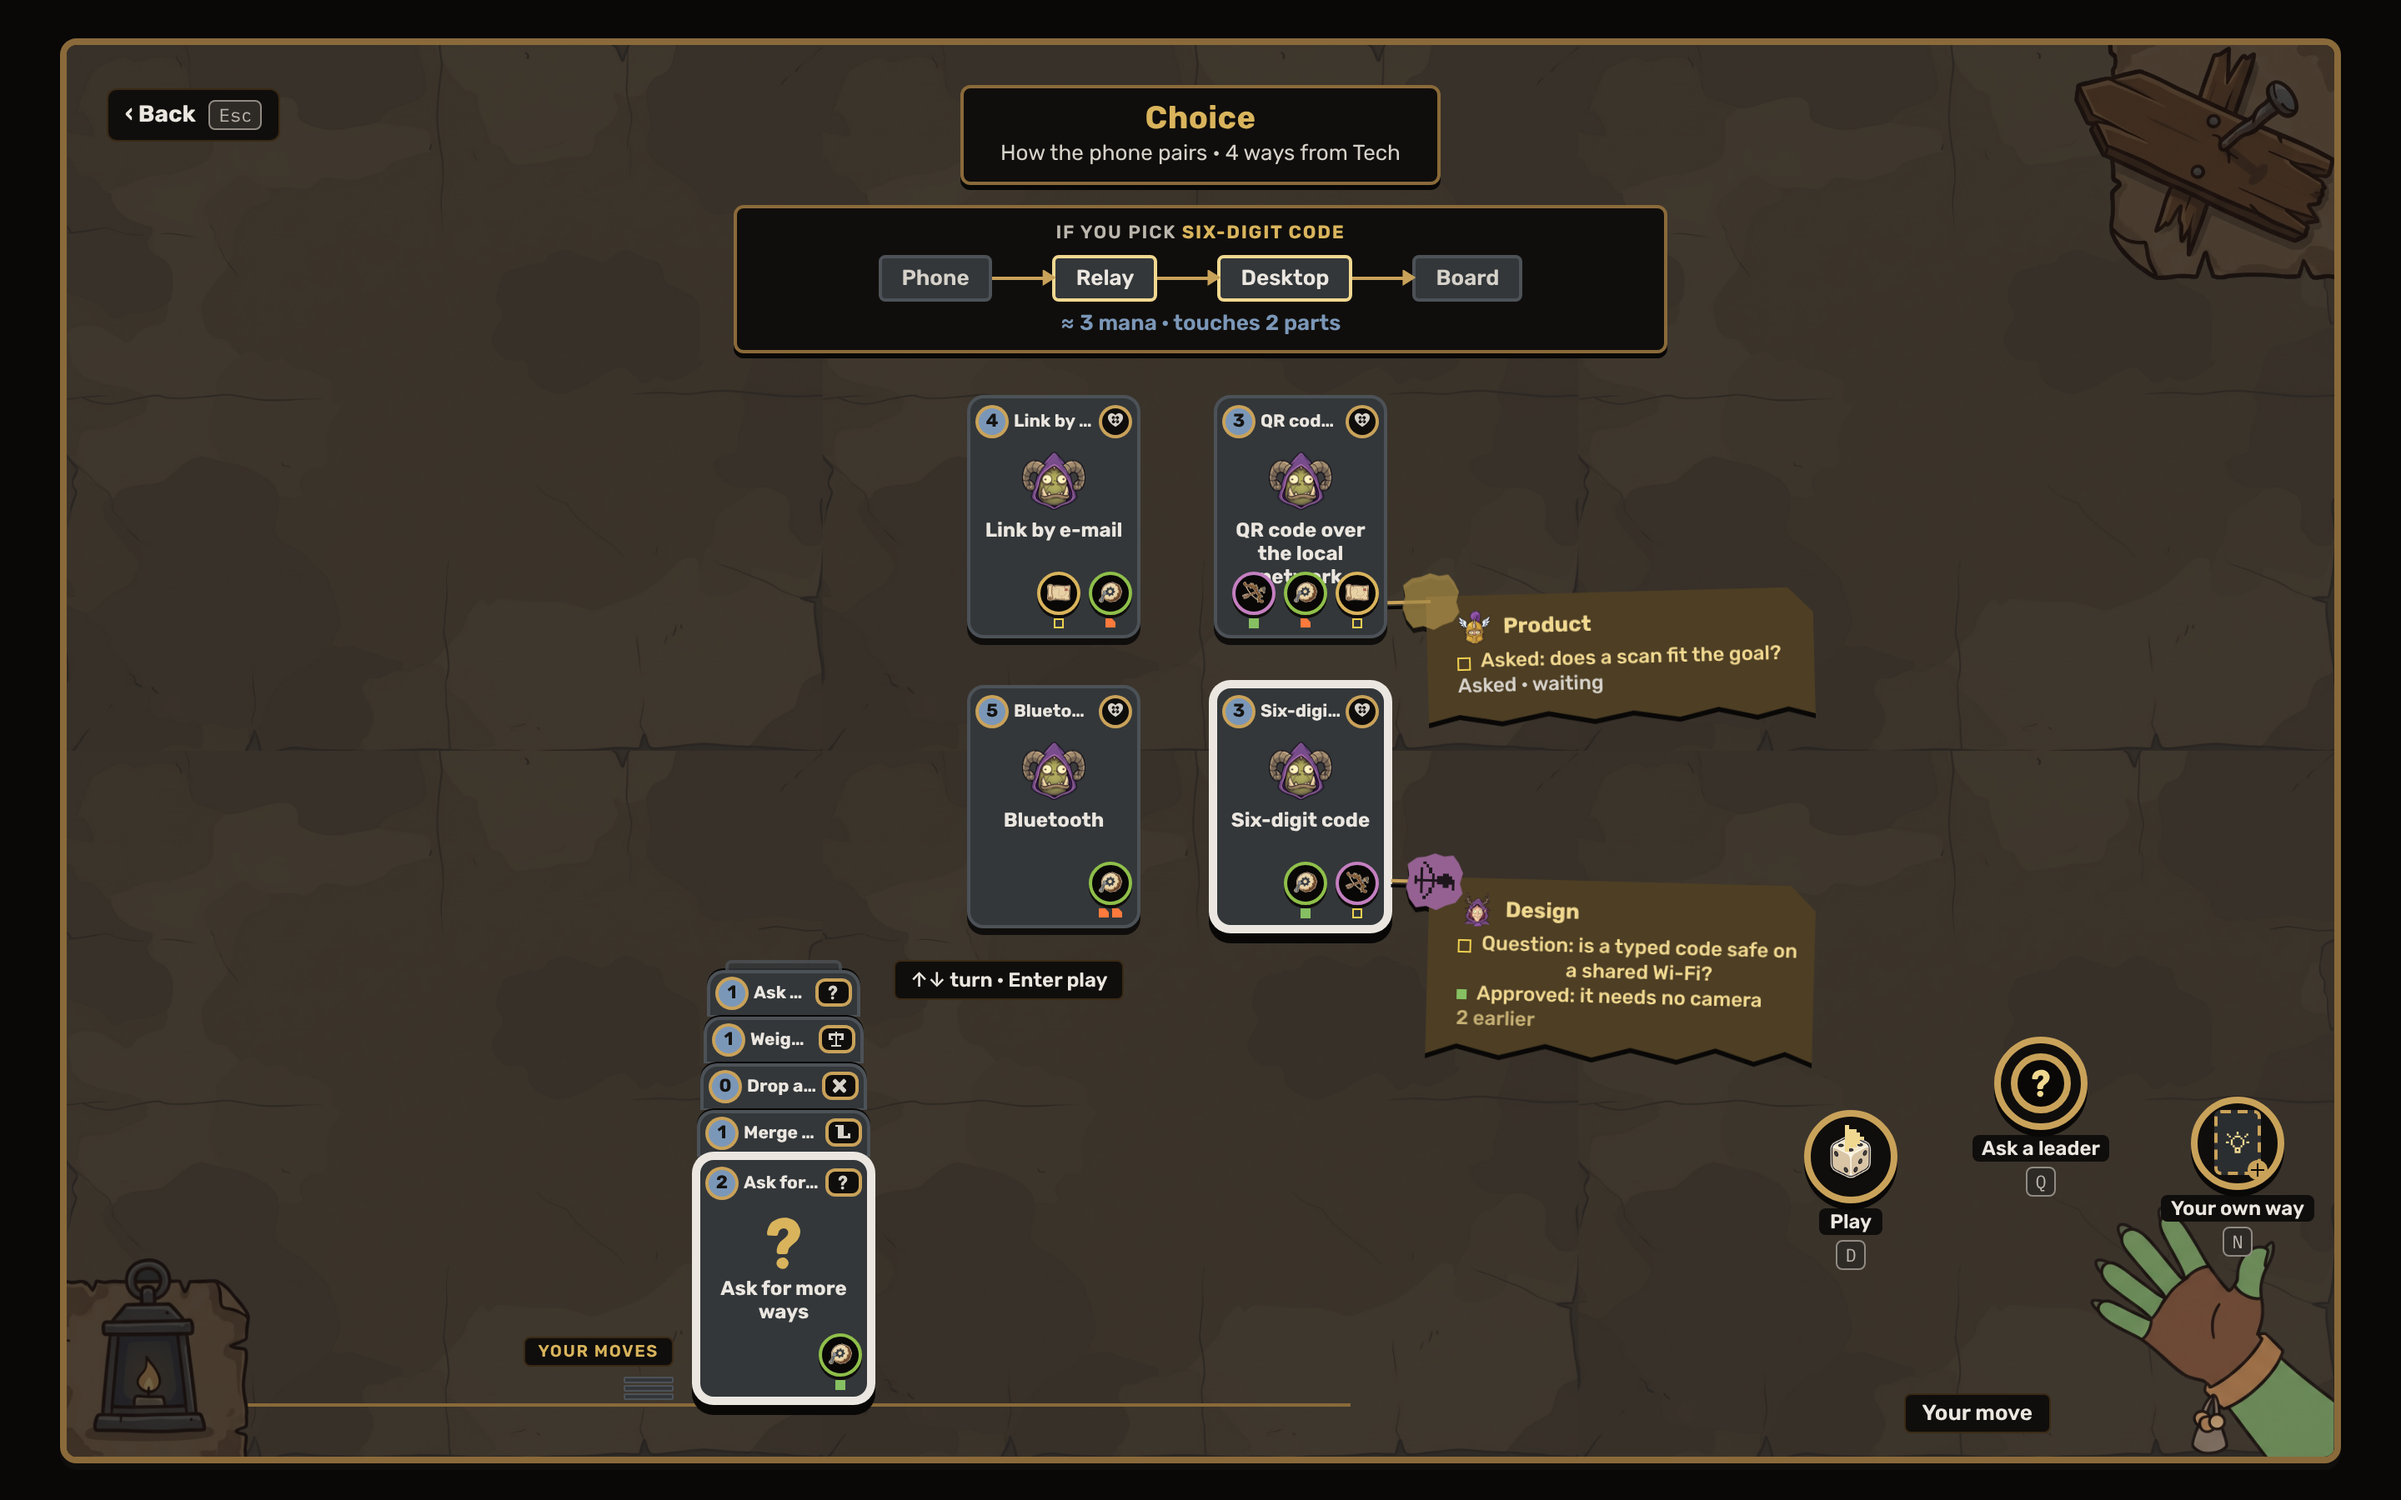
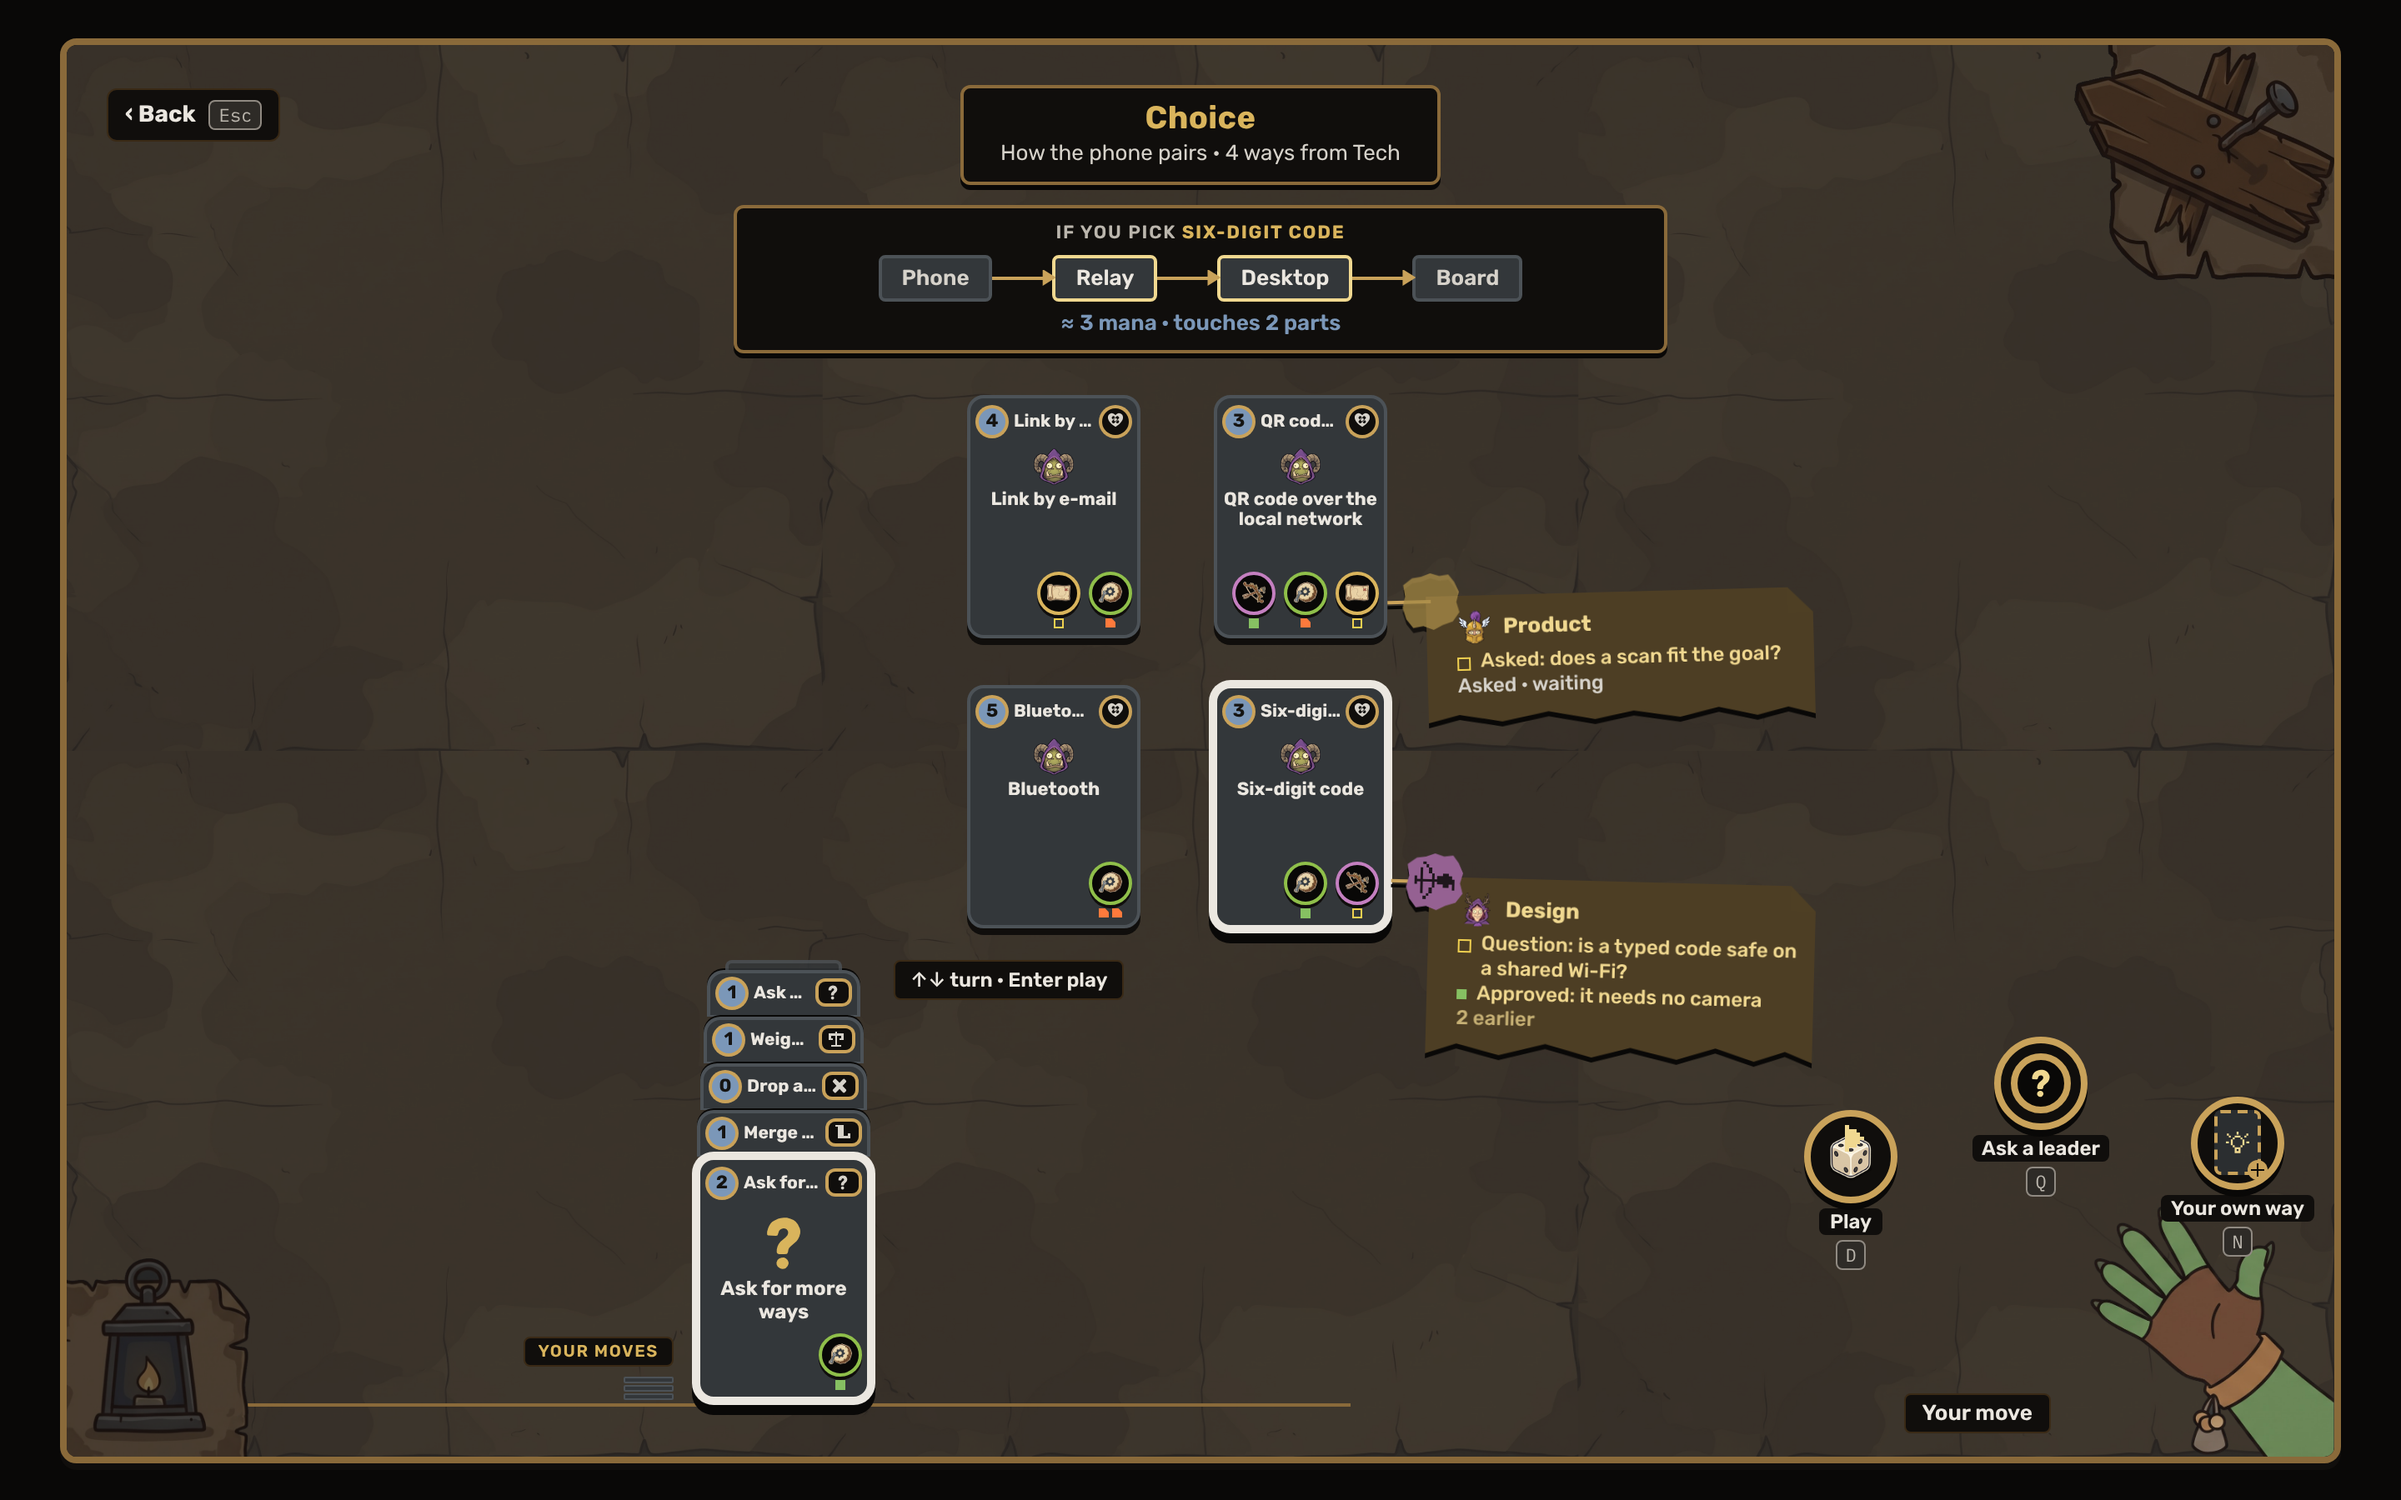
Mat mockups round 7, work in progress
Claude-Session: https://claude.ai/code/session_01MCU3dnmwpxzAdFr5WE7TTZ

diff --git a/docs/mockups/mat-scenes/choice.html b/docs/mockups/mat-scenes/choice.html
@@ -63,7 +63,7 @@ body[data-face="phone"] .plate b { font-size: 17px; line-height: 22px; }
 .tt:hover, .tt:focus { outline: 2px solid var(--ork-ink); }
 
 /* notes: dark kraft paper, sealed by the token's wax, a short thread */
-.note { position: absolute; width: 232px; filter: drop-shadow(0 3px 0 var(--ork-room)); z-index: 6; font: 500 12px/15px var(--ork-font-text); }
+.note { text-align: left; position: absolute; width: 232px; filter: drop-shadow(0 3px 0 var(--ork-room)); z-index: 6; font: 500 12px/15px var(--ork-font-text); }
 .note.t1 { rotate: -1.5deg; } .note.t2 { rotate: 1.5deg; }
 .note .paper { position: relative; padding: 8px 10px 14px 18px; background: color-mix(in srgb, var(--ork-plaque) 82%, var(--ork-gilt) 18%); color: var(--ork-gilt-hi);
   clip-path: polygon(0 0, calc(100% - 15px) 0, 100% 15px, 100% 100%, 93% 94%, 85% 100%, 75% 93%, 65% 100%, 53% 94%, 43% 100%, 31% 93%, 19% 100%, 8% 94%, 0 100%); }
@@ -210,8 +210,8 @@ body[data-face="phone"] { --tile: 280px 280px; }
 .grid { position: absolute; left: 540px; top: 210px; width: 252px; display: grid; grid-template-columns: 104px 104px; gap: 28px 44px; z-index: 3; }
 .grid .card { overflow: visible; }
 .grid .note { left: calc(100% + 26px); top: 116px; --thl: 26px; }
-.way .hd { width: 24px; height: 24px; margin-top: 1px; }
-.way b.t { font-size: 11px; line-height: 12px; margin-top: 2px; }
+.grid .card .hd { width: 24px; height: 24px; margin-top: 1px; }
+.grid .card b.t { font-size: 11px; line-height: 12px; margin-top: 2px; }
 body[data-face="phone"] .view { top: 76px; left: 6px; right: 8px; width: auto; translate: none; padding: 5px 8px 6px; }
 body[data-face="phone"] .view .lab { display: none; }
 body[data-face="phone"] .box { padding: 2px 6px; font-size: 11px; line-height: 15px; }
@@ -219,7 +219,7 @@ body[data-face="phone"] .arr { width: 14px; }
 body[data-face="phone"] .view .cost { font-size: 12px; margin-top: 3px; }
 body[data-face="phone"] .grid { left: 4px; top: 150px; gap: 22px 10px; width: auto; }
 body[data-face="phone"] .grid .note { left: calc(100% + 24px); width: 112px; --thl: 24px; }
-body[data-face="phone"] .grid .card:nth-child(odd) .note { display: none; }
+body[data-face="phone"] .grid .note .nl.dim { display: none; }
 body[data-state="pick"][data-face="desk"] .finger { left: 590px; top: 560px; }
 body[data-state="pick"][data-face="phone"] .finger { left: 50px; top: 540px; }
 

diff --git a/docs/mockups/mat-scenes/discussion.html b/docs/mockups/mat-scenes/discussion.html
@@ -63,7 +63,7 @@ body[data-face="phone"] .plate b { font-size: 17px; line-height: 22px; }
 .tt:hover, .tt:focus { outline: 2px solid var(--ork-ink); }
 
 /* notes: dark kraft paper, sealed by the token's wax, a short thread */
-.note { position: absolute; width: 232px; filter: drop-shadow(0 3px 0 var(--ork-room)); z-index: 6; font: 500 12px/15px var(--ork-font-text); }
+.note { text-align: left; position: absolute; width: 232px; filter: drop-shadow(0 3px 0 var(--ork-room)); z-index: 6; font: 500 12px/15px var(--ork-font-text); }
 .note.t1 { rotate: -1.5deg; } .note.t2 { rotate: 1.5deg; }
 .note .paper { position: relative; padding: 8px 10px 14px 18px; background: color-mix(in srgb, var(--ork-plaque) 82%, var(--ork-gilt) 18%); color: var(--ork-gilt-hi);
   clip-path: polygon(0 0, calc(100% - 15px) 0, 100% 15px, 100% 100%, 93% 94%, 85% 100%, 75% 93%, 65% 100%, 53% 94%, 43% 100%, 31% 93%, 19% 100%, 8% 94%, 0 100%); }
